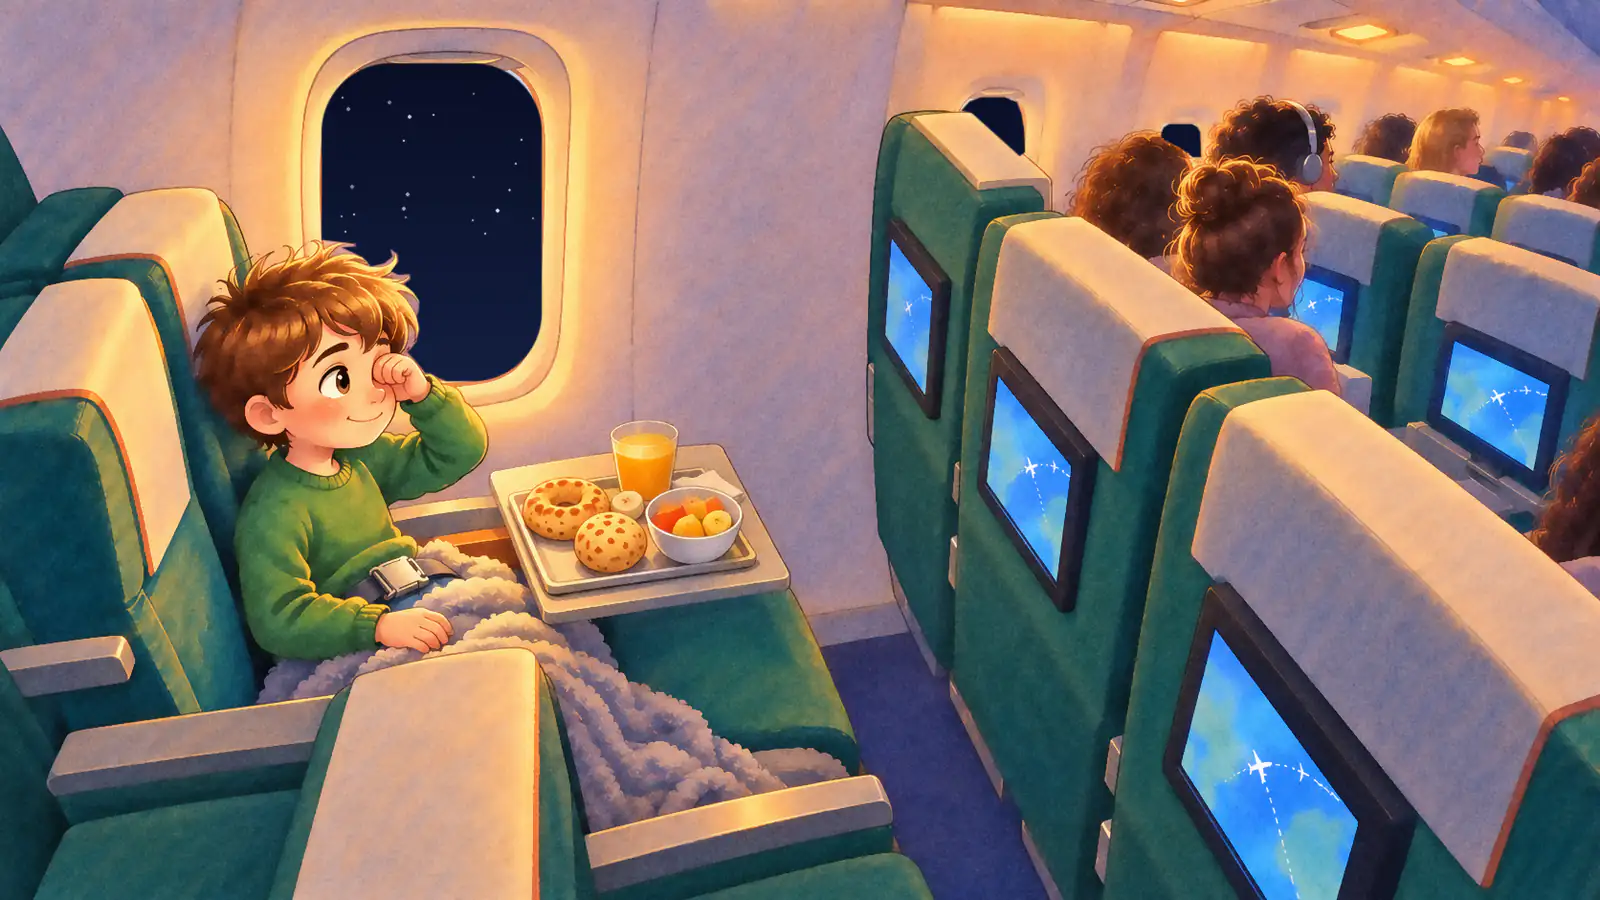
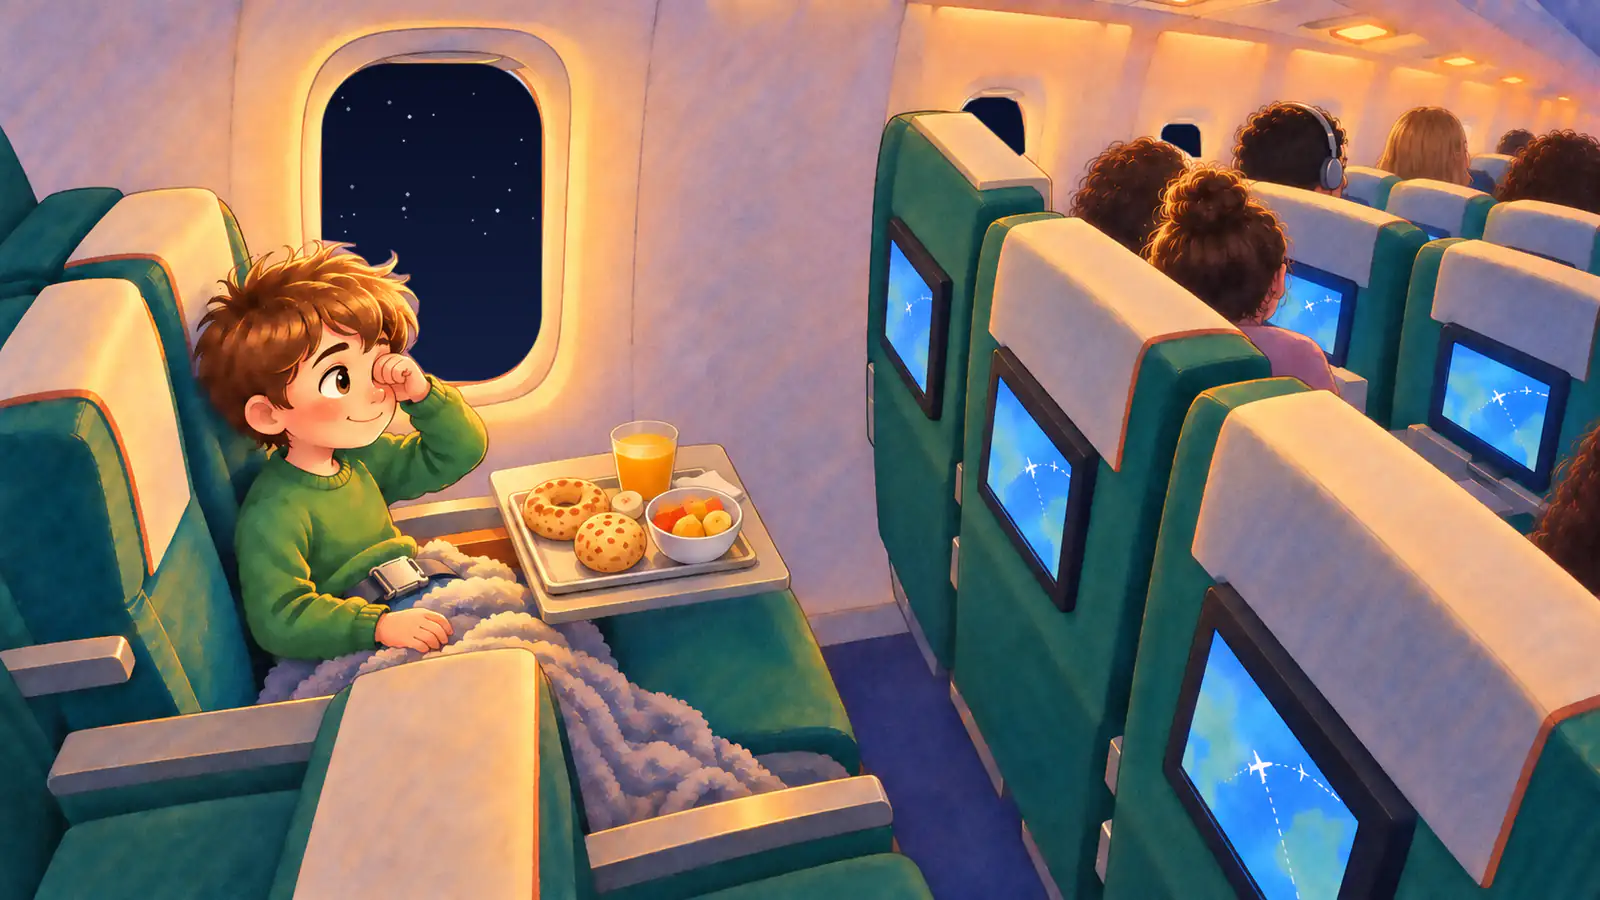
Los pasajeros de las láminas, de espaldas, y el JAZ 110 con sus dos dibujos en la tarjeta: su perfil y su cabina de noche

diff --git a/src/ui/ilustraciones-recetas.ts b/src/ui/ilustraciones-recetas.ts
@@ -195,6 +195,8 @@ export const RECETAS: Readonly<Record<string, RecetaDeLaIlustracion>> = {
   "fuera-jaz-60": { original: "fuera-jaz60.jpg", hueco: "tarjeta", recorte: ENTERA_GRANDE },
   "fuera-jaz-90": { original: "fuera-jaz90.jpg", hueco: "tarjeta", recorte: ENTERA_GRANDE },
   "fuera-jaz-120": { original: "fuera-jaz120.jpg", hueco: "tarjeta", recorte: ENTERA_GRANDE },
+  // De perfil y sobre papel, el retrato aprobado del Tijereta, con más papel arriba y abajo para llegar a 4:3.
+  "fuera-jaz-110": { original: "fuera-jaz110.png", hueco: "tarjeta", recorte: [0, 0, 1774, 1330] },
   // ── Y por dentro, con Jazlyn a los mandos ─────────────────────────────
   "cabina-jaz-20": { original: "cabina-jaz20.jpg", hueco: "tarjeta", recorte: ENTERA_GRANDE },
   "cabina-jaz-25": { original: "cabina-jaz25.jpg", hueco: "tarjeta", recorte: ENTERA_GRANDE },
@@ -213,6 +215,13 @@ export const RECETAS: Readonly<Record<string, RecetaDeLaIlustracion>> = {
     recorte: [0, 150, 1812, 1359],
     porque:
       "por la derecha, hasta dejar fuera el hombro del copiloto, que llevaba cuatro barras: el asiento de la derecha lleva tres",
+  },
+  // El único que por dentro no enseña a Jazlyn a los mandos: lo propio de este avión son sus dos pasillos, de noche.
+  "cabina-jaz-110": {
+    original: "cabina-jaz110.png",
+    hueco: "tarjeta",
+    recorte: [209, 0, 1254, 941],
+    porque: "a 4:3 por los dos lados, con el pasillo de la izquierda y las filas de delante a la vista",
   },
   // ── La cara de Jazlyn, la de quien habla ──────────────────────────────
   "retrato-jazlyn": {

diff --git a/src/i18n/en.ts b/src/i18n/en.ts
@@ -1498,12 +1498,14 @@ export const EN: Dictionary = {
   "ilustracion.fuera-jaz-60": "The JAZ 60 flying over the wetlands",
   "ilustracion.fuera-jaz-90": "The JAZ 90 flying above the clouds",
   "ilustracion.fuera-jaz-120": "The JAZ 120, with its four engines, above the clouds",
+  "ilustracion.fuera-jaz-110": "The JAZ 110 Tijereta in profile, with its two engines under the wings",
   "ilustracion.cabina-jaz-20": "Jazlyn at the controls of the JAZ 20, in the left seat",
   "ilustracion.cabina-jaz-25": "Jazlyn at the controls of the JAZ 25, the single-seat biplane",
   "ilustracion.cabina-jaz-40": "Jazlyn at the controls of the JAZ 40, with an engine on each wing",
   "ilustracion.cabina-jaz-60": "Jazlyn at the controls of the JAZ 60 and its screens",
   "ilustracion.cabina-jaz-90": "Jazlyn at the controls of the JAZ 90, with Mount Teide ahead",
   "ilustracion.cabina-jaz-120": "Jazlyn at the controls of the JAZ 120, at night under the Southern Cross",
+  "ilustracion.cabina-jaz-110": "The JAZ 110 cabin at night, with its two aisles and the passengers seen from behind",
   "ilustracion.retrato-jazlyn": "Jazlyn, with the captain's cap and sunglasses",
   // Los esquemas de lo que se explica en el vuelo de pasaje, y la torre de «Luz verde» (punto 311).
   "ilustracion.mascara": "Oxygen masks drop: the dad puts one on first, then helps the little one",

diff --git a/src/i18n/es-PY.ts b/src/i18n/es-PY.ts
@@ -1305,12 +1305,14 @@ export const ES_PY = {
   "ilustracion.fuera-jaz-60": "El JAZ 60 volando sobre los esteros",
   "ilustracion.fuera-jaz-90": "El JAZ 90 volando por encima de las nubes",
   "ilustracion.fuera-jaz-120": "El JAZ 120, con sus cuatro motores, por encima de las nubes",
+  "ilustracion.fuera-jaz-110": "El JAZ 110 Tijereta, de perfil, con sus dos motores bajo las alas",
   "ilustracion.cabina-jaz-20": "Jazlyn a los mandos del JAZ 20, en el asiento de la izquierda",
   "ilustracion.cabina-jaz-25": "Jazlyn a los mandos del JAZ 25, el biplano de una plaza",
   "ilustracion.cabina-jaz-40": "Jazlyn a los mandos del JAZ 40, con un motor en cada ala",
   "ilustracion.cabina-jaz-60": "Jazlyn a los mandos del JAZ 60, con sus pantallas",
   "ilustracion.cabina-jaz-90": "Jazlyn a los mandos del JAZ 90, con el Teide delante",
   "ilustracion.cabina-jaz-120": "Jazlyn a los mandos del JAZ 120, de noche y con la Cruz del Sur",
+  "ilustracion.cabina-jaz-110": "La cabina del JAZ 110 de noche, con sus dos pasillos y los pasajeros de espaldas",
   "ilustracion.retrato-jazlyn": "Jazlyn, con su gorra de comandante y sus gafas de sol",
   // Los esquemas de lo que se explica en el vuelo de pasaje, y la torre de «Luz verde» (punto 311).
   "ilustracion.mascara": "El papá se pone su máscara primero y después ayuda a la criatura",

diff --git a/src/ui/ilustraciones.test.ts b/src/ui/ilustraciones.test.ts
@@ -180,14 +180,7 @@ describe("las ilustraciones", () => {
     ]);
   });
 
-  /*
-   * **El JAZ 110 todavía no tiene las suyas**: el retrato aprobado es de perfil, sobre
-   * papel, y el dibujo de cabina que hay, el del largo radio, lleva lo que se apuntó
-   * en su plan —un copiloto de cuatro barras, el sol de frente—. Sin los dos, la
-   * tarjeta enseña el modelo, como con cualquier avión sin dibujos. Al llegar, sale
-   * de aquí.
-   */
-  const SIN_DIBUJOS: readonly string[] = ["jaz-110"];
+  const SIN_DIBUJOS: readonly string[] = [];
 
   it("cada avión de la flota, por fuera y por dentro; y nada de lo que no es de la flota", () => {
     for (const id of ESTA_HECHO.filter((x) => !SIN_DIBUJOS.includes(x))) {

diff --git a/CREDITOS.md b/CREDITOS.md
@@ -782,6 +782,8 @@ y soñando, que no tienen hueco.
 | `src/assets/ilustraciones/cabina-jaz-60.webp` | `cabina-jaz60.jpg` | La tarjeta del avión, en el hangar | entera, en 4:3, 360 × 270 |
 | `src/assets/ilustraciones/cabina-jaz-90.webp` | `cabina-jaz90.jpg` | La tarjeta del avión, en el hangar | recortada por la derecha, hasta dejar fuera el hombro del copiloto, que llevaba cuatro barras: el asiento de la derecha lleva tres; 360 × 270 |
 | `src/assets/ilustraciones/cabina-jaz-120.webp` | `cabina-jaz120.jpg` | La tarjeta del avión, en el hangar | recortada por la derecha, hasta dejar fuera el hombro del copiloto, que llevaba cuatro barras: el asiento de la derecha lleva tres; 360 × 270 |
+| `src/assets/ilustraciones/fuera-jaz-110.webp` | `fuera-jaz110.png` | La tarjeta del avión, en el hangar | de perfil y sobre papel, con más papel arriba y abajo hasta 4:3 |
+| `src/assets/ilustraciones/cabina-jaz-110.webp` | `cabina-jaz110.png` | La tarjeta del avión, en el hangar | la cabina de pasaje de noche, recortada a 4:3 por los dos lados |
 | `src/assets/ilustraciones/retrato-jazlyn.webp` | `jazlyn-cabina-dibujo.jpg` | La cara de Jazlyn cuando habla | recortada a la cara sola, por encima de los hombros, que en el dibujo llevan las tres barras de primera oficial; 96 × 96, en redondo |
 | `src/assets/ilustraciones/mascara.webp` | `esquemas/mascara.jpg` | La lámina de lo que se explica en «Viajá con Jazlyn», en lugar del dibujo de las máscaras | entera, en 4:3, 1280 × 960 |
 | `src/assets/ilustraciones/nube.webp` | `esquemas/nube.jpg` | La lámina de lo que se explica en «Viajá con Jazlyn», en lugar del dibujo de la nube de cerca | entera, en 4:3, 1280 × 960 |
